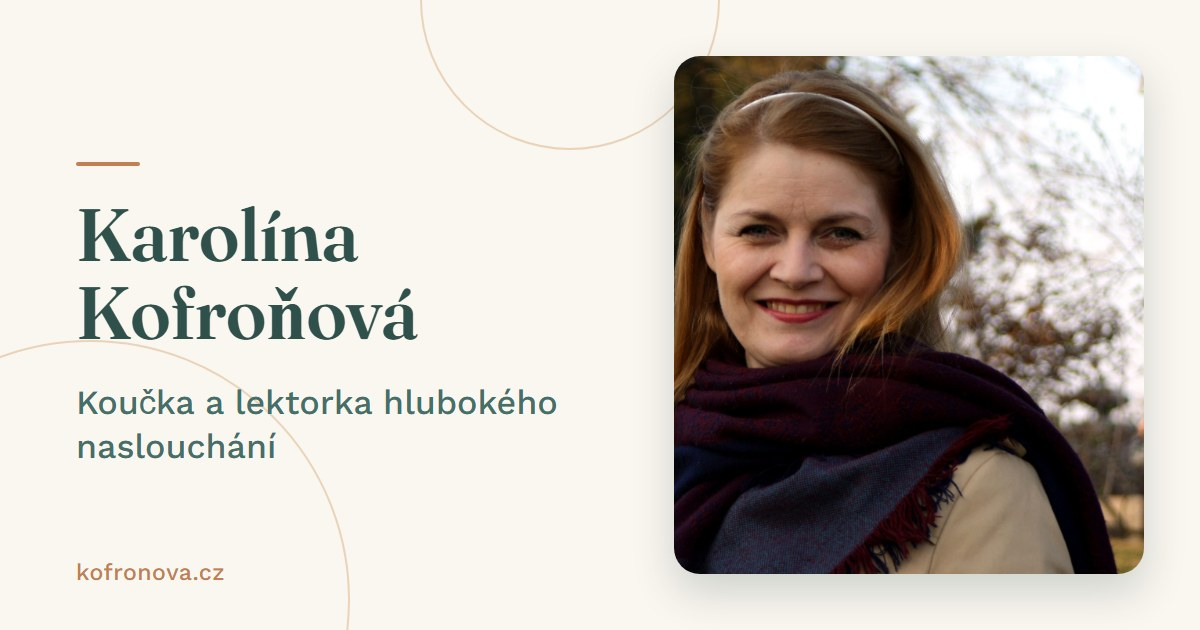
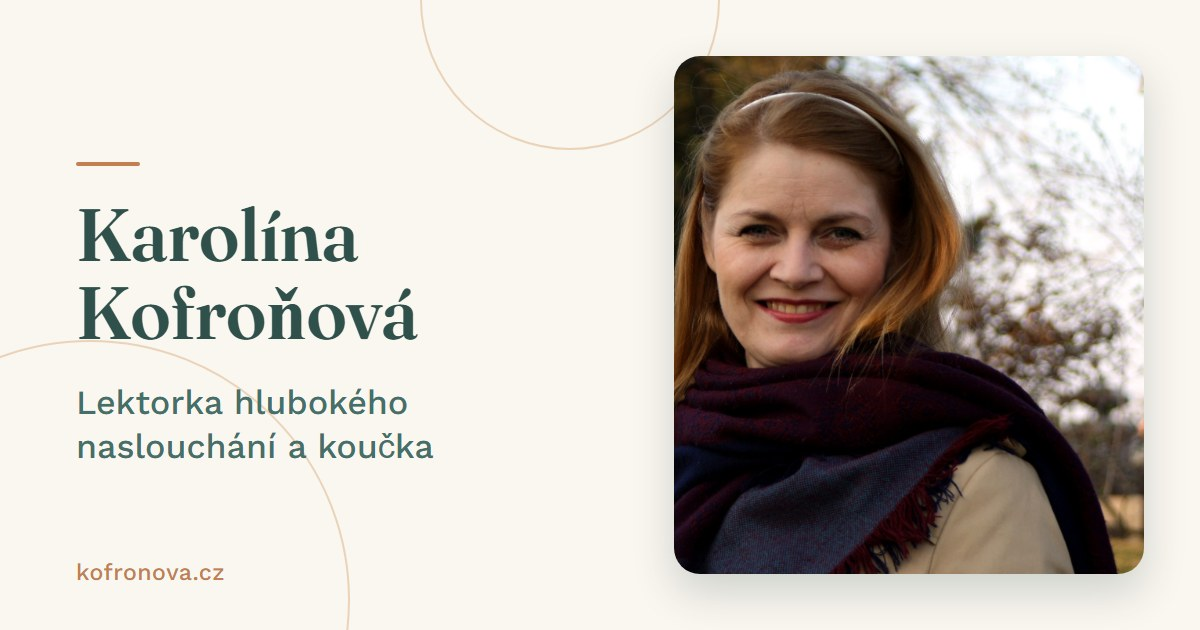
Obrácené pořadí: lektorka hlubokého naslouchání a koučka (titulek, náhledový obrázek, popisky)

Changed region(s): [[0.0617, 0.6032, 0.4625, 0.6635], [0.2158, 0.6937, 0.37, 0.7238]]

diff --git a/index.html b/index.html
@@ -3,18 +3,18 @@
 <head>
 <meta charset="UTF-8">
 <meta name="viewport" content="width=device-width, initial-scale=1.0">
-<title>Karolína Kofroňová — koučka a lektorka hlubokého naslouchání</title>
+<title>Karolína Kofroňová — lektorka hlubokého naslouchání a koučka</title>
 <meta name="description" content="Pomáhám lidem vrátit se ke klidu a jasnosti skrze hluboké naslouchání – bez dalších návodů na „opravu sebe“. Metoda 3P, skupinové programy, individuální sezení.">
 <meta property="og:type" content="website">
 <meta property="og:locale" content="cs_CZ">
 <meta property="og:site_name" content="Karolína Kofroňová">
-<meta property="og:title" content="Karolína Kofroňová — koučka a lektorka hlubokého naslouchání">
+<meta property="og:title" content="Karolína Kofroňová — lektorka hlubokého naslouchání a koučka">
 <meta property="og:description" content="Pomáhám lidem vrátit se ke klidu a jasnosti skrze hluboké naslouchání – bez dalších návodů na „opravu sebe“. Metoda 3P, skupinové programy, individuální sezení.">
 <meta property="og:url" content="https://kofronova.cz/">
 <meta property="og:image" content="https://kofronova.cz/assets/og-image.jpg">
 <meta property="og:image:width" content="1200">
 <meta property="og:image:height" content="630">
-<meta property="og:image:alt" content="Karolína Kofroňová – koučka a lektorka hlubokého naslouchání">
+<meta property="og:image:alt" content="Karolína Kofroňová – lektorka hlubokého naslouchání a koučka">
 <meta name="twitter:card" content="summary_large_image">
 <link rel="preload" href="assets/fonts/fraunces-latin.woff2" as="font" type="font/woff2" crossorigin>
 <link rel="preload" href="assets/fonts/worksans-latin.woff2" as="font" type="font/woff2" crossorigin>
@@ -47,7 +47,7 @@
   <span class="ring r2" aria-hidden="true"></span>
   <div class="wrap hero-flex">
     <div class="hero-inner">
-      <span class="eyebrow">Kouč · lektorka hlubokého naslouchání · metoda 3P</span>
+      <span class="eyebrow">Lektorka hlubokého naslouchání · koučka · metoda 3P</span>
       <h1>Klid, jasnost a důvěra ve vlastní moudrost.</h1>
       <p class="lede">Pomáhám přemýšlivým lidem, kteří jsou unavení snahou pořád „opravovat sami sebe“, vrátit se ke klidu a jasnosti — skrze naslouchání, ne skrze další návody.</p>
       <div class="btn-row">

diff --git a/e-book.html b/e-book.html
@@ -14,7 +14,7 @@
 <meta property="og:image" content="https://kofronova.cz/assets/og-image.jpg">
 <meta property="og:image:width" content="1200">
 <meta property="og:image:height" content="630">
-<meta property="og:image:alt" content="Karolína Kofroňová – koučka a lektorka hlubokého naslouchání">
+<meta property="og:image:alt" content="Karolína Kofroňová – lektorka hlubokého naslouchání a koučka">
 <meta name="twitter:card" content="summary_large_image">
 <link rel="preload" href="assets/fonts/fraunces-latin.woff2" as="font" type="font/woff2" crossorigin>
 <link rel="preload" href="assets/fonts/worksans-latin.woff2" as="font" type="font/woff2" crossorigin>

diff --git a/o-mne.html b/o-mne.html
@@ -14,7 +14,7 @@
 <meta property="og:image" content="https://kofronova.cz/assets/og-image.jpg">
 <meta property="og:image:width" content="1200">
 <meta property="og:image:height" content="630">
-<meta property="og:image:alt" content="Karolína Kofroňová – koučka a lektorka hlubokého naslouchání">
+<meta property="og:image:alt" content="Karolína Kofroňová – lektorka hlubokého naslouchání a koučka">
 <meta name="twitter:card" content="summary_large_image">
 <link rel="preload" href="assets/fonts/fraunces-latin.woff2" as="font" type="font/woff2" crossorigin>
 <link rel="preload" href="assets/fonts/worksans-latin.woff2" as="font" type="font/woff2" crossorigin>

diff --git a/program-stesti.html b/program-stesti.html
@@ -14,7 +14,7 @@
 <meta property="og:image" content="https://kofronova.cz/assets/og-image.jpg">
 <meta property="og:image:width" content="1200">
 <meta property="og:image:height" content="630">
-<meta property="og:image:alt" content="Karolína Kofroňová – koučka a lektorka hlubokého naslouchání">
+<meta property="og:image:alt" content="Karolína Kofroňová – lektorka hlubokého naslouchání a koučka">
 <meta name="twitter:card" content="summary_large_image">
 <link rel="preload" href="assets/fonts/fraunces-latin.woff2" as="font" type="font/woff2" crossorigin>
 <link rel="preload" href="assets/fonts/worksans-latin.woff2" as="font" type="font/woff2" crossorigin>
